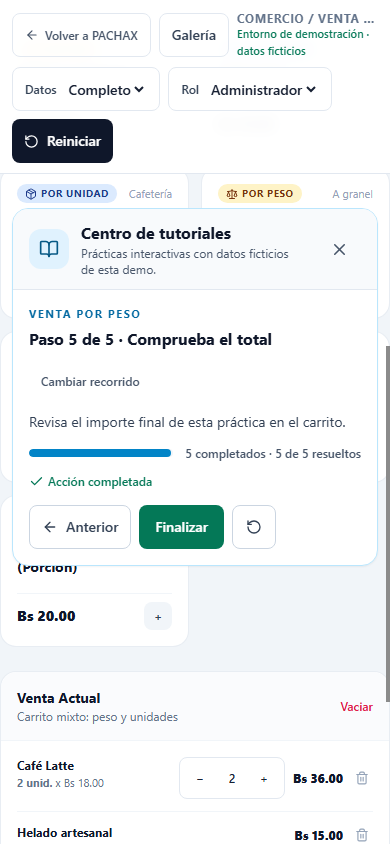
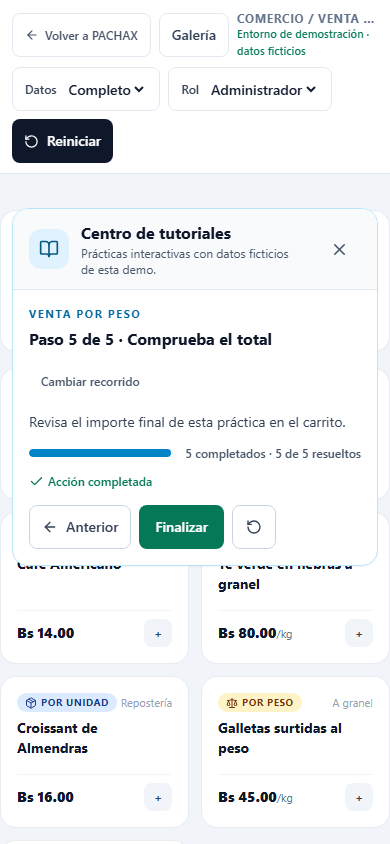
fix(demo): make retail payment tutorial start empty

diff --git a/src/demo/quick-retail/QuickRetailTutorialCenter.tsx b/src/demo/quick-retail/QuickRetailTutorialCenter.tsx
@@ -1,4 +1,4 @@
-import { useEffect, useMemo, useState } from 'react'
+import { useEffect, useLayoutEffect, useMemo, useRef, useState } from 'react'
 import { ArrowLeft, ArrowRight, BookOpen, Check, CircleHelp, RotateCcw, X } from 'lucide-react'
 import { QUICK_RETAIL_TUTORIALS, type QuickRetailTutorialEvent, type QuickRetailTutorialId } from './quickRetailTutorials'
 
@@ -25,6 +25,11 @@ export function QuickRetailTutorialCenter({
   const step = tutorial?.steps[stepIndex]
   const currentKey = tutorial && step ? `${tutorial.id}:${step.id}` : null
   const currentState = currentKey ? stepStates[currentKey] || 'pending' : 'pending'
+  const activeAction = useRef<{ key: string; expectedEvent: QuickRetailTutorialEvent } | null>(null)
+
+  useLayoutEffect(() => {
+    activeAction.current = isOpen && currentKey && step ? { key: currentKey, expectedEvent: step.expectedEvent } : null
+  }, [isOpen, currentKey, step])
 
   useEffect(() => {
     if (!isOpen || !step) return
@@ -42,19 +47,28 @@ export function QuickRetailTutorialCenter({
   }, [isOpen, selectedId, stepIndex, step])
 
   useEffect(() => {
-    if (!isOpen) return
     const onEvent = (event: Event) => {
       const detail = (event as CustomEvent<{ action: QuickRetailTutorialEvent }>).detail
-      if (!step || !currentKey || detail?.action !== step.expectedEvent) return
-      setStepStates((current) => ({ ...current, [currentKey]: 'completed' }))
+      const active = activeAction.current
+      if (!active || detail?.action !== active.expectedEvent) return
+      setStepStates((current) => ({ ...current, [active.key]: 'completed' }))
     }
     window.addEventListener('quick-retail-tutorial-action', onEvent)
     return () => window.removeEventListener('quick-retail-tutorial-action', onEvent)
-  }, [isOpen, currentKey, step])
+  }, [])
 
   if (!isOpen) return null
 
+  const moveToStep = (nextIndex: number) => {
+    const nextStep = tutorial?.steps[nextIndex]
+    activeAction.current = tutorial && nextStep ? { key: `${tutorial.id}:${nextStep.id}`, expectedEvent: nextStep.expectedEvent } : null
+    setStepIndex(nextIndex)
+  }
+
   const selectTutorial = (id: QuickRetailTutorialId) => {
+    const selected = QUICK_RETAIL_TUTORIALS.find((item) => item.id === id)
+    const firstStep = selected?.steps[0]
+    activeAction.current = selected && firstStep ? { key: `${selected.id}:${firstStep.id}`, expectedEvent: firstStep.expectedEvent } : null
     setSelectedId(id)
     setStepIndex(0)
     onOpenPos()
@@ -75,8 +89,11 @@ export function QuickRetailTutorialCenter({
       tutorial.steps.forEach((item) => delete next[`${tutorial.id}:${item.id}`])
       return next
     })
+    const firstStep = tutorial.steps[0]
+    activeAction.current = firstStep ? { key: `${tutorial.id}:${firstStep.id}`, expectedEvent: firstStep.expectedEvent } : null
     setStepIndex(0)
     onOpenPos()
+    window.dispatchEvent(new CustomEvent('quick-retail-tutorial-selected'))
   }
 
   return (
@@ -109,7 +126,7 @@ export function QuickRetailTutorialCenter({
       ) : (
         <div className="grid gap-4 p-4 sm:p-5 lg:grid-cols-[minmax(0,1fr)_auto] lg:items-center">
           <div className="min-w-0">
-            <div className="flex flex-wrap items-center justify-between gap-2"><div><p className="text-[11px] font-bold uppercase tracking-[0.14em] text-sky-700">{tutorial.title}</p><h3 className="mt-1 text-base font-bold text-slate-900">Paso {stepIndex + 1} de {tutorial.steps.length} · {step?.title}</h3></div><button type="button" onClick={() => setSelectedId(null)} className="min-h-11 rounded-lg px-3 text-xs font-semibold text-slate-600 hover:bg-slate-100">Cambiar recorrido</button></div>
+            <div className="flex flex-wrap items-center justify-between gap-2"><div><p className="text-[11px] font-bold uppercase tracking-[0.14em] text-sky-700">{tutorial.title}</p><h3 className="mt-1 text-base font-bold text-slate-900">Paso {stepIndex + 1} de {tutorial.steps.length} · {step?.title}</h3></div><button type="button" onClick={() => { activeAction.current = null; setSelectedId(null) }} className="min-h-11 rounded-lg px-3 text-xs font-semibold text-slate-600 hover:bg-slate-100">Cambiar recorrido</button></div>
             <p className="mt-2 max-w-3xl text-sm leading-relaxed text-slate-700" aria-live="polite">{step?.instruction}</p>
             <div className="mt-3 flex flex-wrap items-center gap-3">
               <div className="h-2 min-w-36 flex-1 overflow-hidden rounded-full bg-slate-100" role="progressbar" aria-label="Progreso del recorrido" aria-valuemin={0} aria-valuemax={tutorial.steps.length} aria-valuenow={resolvedCount}><div className="h-full rounded-full bg-sky-600 transition-[width]" style={{ width: `${progressPercent}%` }} /></div>
@@ -119,9 +136,9 @@ export function QuickRetailTutorialCenter({
             </div>
           </div>
           <nav aria-label="Navegación del recorrido" className="flex flex-wrap items-center gap-2 lg:justify-end">
-            <button type="button" onClick={() => setStepIndex((index) => Math.max(0, index - 1))} disabled={stepIndex === 0} className="inline-flex min-h-11 items-center justify-center gap-2 rounded-lg border border-slate-300 px-3 text-sm font-semibold text-slate-700 disabled:opacity-40"><ArrowLeft size={16} /> Anterior</button>
-            {currentState === 'pending' && <button type="button" onClick={() => setCurrentState('skipped')} className="min-h-11 rounded-lg px-3 text-sm font-semibold text-slate-600 underline decoration-slate-300 underline-offset-4">Omitir paso</button>}
-            {stepIndex < tutorial.steps.length - 1 ? <button type="button" onClick={() => setStepIndex((index) => Math.min(tutorial.steps.length - 1, index + 1))} disabled={currentState === 'pending'} className="inline-flex min-h-11 items-center justify-center gap-2 rounded-lg bg-slate-900 px-4 text-sm font-semibold text-white disabled:cursor-not-allowed disabled:opacity-40">Siguiente <ArrowRight size={16} /></button> : <button type="button" onClick={() => setSelectedId(null)} disabled={currentState === 'pending'} className="min-h-11 rounded-lg bg-emerald-700 px-4 text-sm font-semibold text-white disabled:opacity-40">Finalizar</button>}
+            <button type="button" onClick={() => moveToStep(Math.max(0, stepIndex - 1))} disabled={stepIndex === 0} className="inline-flex min-h-11 items-center justify-center gap-2 rounded-lg border border-slate-300 px-3 text-sm font-semibold text-slate-700 disabled:opacity-40"><ArrowLeft size={16} /> Anterior</button>
+            {currentState === 'pending' && <button type="button" onClick={() => { activeAction.current = null; setCurrentState('skipped') }} className="min-h-11 rounded-lg px-3 text-sm font-semibold text-slate-600 underline decoration-slate-300 underline-offset-4">Omitir paso</button>}
+            {stepIndex < tutorial.steps.length - 1 ? <button type="button" onClick={() => moveToStep(Math.min(tutorial.steps.length - 1, stepIndex + 1))} disabled={currentState === 'pending'} className="inline-flex min-h-11 items-center justify-center gap-2 rounded-lg bg-slate-900 px-4 text-sm font-semibold text-white disabled:cursor-not-allowed disabled:opacity-40">Siguiente <ArrowRight size={16} /></button> : <button type="button" onClick={() => { activeAction.current = null; setSelectedId(null) }} disabled={currentState === 'pending'} className="min-h-11 rounded-lg bg-emerald-700 px-4 text-sm font-semibold text-white disabled:opacity-40">Finalizar</button>}
             <button type="button" onClick={restart} className="grid min-h-11 min-w-11 place-items-center rounded-lg border border-slate-300 text-slate-700" aria-label="Reiniciar recorrido" title="Reiniciar recorrido"><RotateCcw size={16} /></button>
           </nav>
         </div>

diff --git a/src/demo/quick-retail/quickRetailTutorials.ts b/src/demo/quick-retail/quickRetailTutorials.ts
@@ -43,7 +43,7 @@ export const QUICK_RETAIL_TUTORIALS: readonly QuickRetailTutorial[] = [
     steps: [
       { id: 'catalog', title: 'Catálogo', instruction: 'Enfoca el área del catálogo para ubicar dónde aparecen los productos disponibles.', target: 'catalog', expectedEvent: 'catalog-focus' },
       { id: 'search', title: 'Búsqueda', instruction: 'Enfoca la búsqueda. Puedes filtrar productos escribiendo su nombre o rubro.', target: 'search', expectedEvent: 'search-focus' },
-      { id: 'product', title: 'Productos', instruction: 'Enfoca el catálogo para reconocer dónde aparecen los artículos. Puedes continuar sin agregar uno a la venta.', target: 'catalog', expectedEvent: 'catalog-focus' },
+      { id: 'product', title: 'Productos', instruction: 'Selecciona un artículo para ver cómo aparece en la venta actual. Si el catálogo está vacío, puedes omitir este paso.', target: 'product', expectedEvent: 'product-added' },
       { id: 'cart', title: 'Carrito', instruction: 'Enfoca la venta actual. Aquí aparecen las líneas agregadas, su cantidad y subtotal.', target: 'cart', expectedEvent: 'cart-focus' },
       { id: 'total', title: 'Total', instruction: 'Enfoca el total para identificar el importe que se revisa antes de cobrar.', target: 'total', expectedEvent: 'total-focus' },
     ],
@@ -70,6 +70,7 @@ export const QUICK_RETAIL_TUTORIALS: readonly QuickRetailTutorial[] = [
   {
     id: 'payment', title: 'Cobro demostrativo', description: 'Practica un cobro local con métodos ficticios, sin transacciones bancarias.', requiresProducts: true,
     steps: [
+      { id: 'add-payment-product', title: 'Prepara un artículo', instruction: 'Agrega un producto marcado “Por Unidad”, por ejemplo Café Latte. El cobro requiere al menos un artículo en el carrito. Si ya agregaste uno, puedes omitir este paso.', target: 'product', expectedEvent: 'product-added' },
       { id: 'review-cart', title: 'Revisa el carrito', instruction: 'Enfoca el carrito y revisa los productos y cantidades antes de cobrar.', target: 'cart', expectedEvent: 'cart-focus' },
       { id: 'open-checkout', title: 'Abre el cobro', instruction: 'Pulsa “Cobrar Venta” para abrir el formulario de pago de demostración.', target: 'checkout', expectedEvent: 'checkout-opened' },
       { id: 'select-method', title: 'Identifica los métodos', instruction: 'Selecciona Efectivo, QR o Mixto. La selección solo afecta esta práctica local.', target: 'payment-method', expectedEvent: 'payment-method-selected' },

diff --git a/src/demo/quick-retail/QuickRetailPOS.tsx b/src/demo/quick-retail/QuickRetailPOS.tsx
@@ -183,7 +183,7 @@ export function QuickRetailPOS({
         )}
 
         {/* Buscador y Categorías */}
-        <div data-tutorial-target="catalog" tabIndex={0} onFocus={() => tutorialAction('catalog-focus')} className="bg-white p-4 rounded-2xl border border-slate-200/80 shadow-xs space-y-3 focus:outline-none">
+        <div data-tutorial-target="catalog" tabIndex={0} onFocus={() => tutorialAction('catalog-focus')} onClick={() => tutorialAction('catalog-focus')} className="bg-white p-4 rounded-2xl border border-slate-200/80 shadow-xs space-y-3 focus:outline-none">
           <div className="flex items-center gap-3">
             <div className="relative flex-1">
               <Search className="w-4 h-4 absolute left-3 top-1/2 -translate-y-1/2 text-slate-400" />

diff --git a/docs/retail-learning-center.md b/docs/retail-learning-center.md
@@ -15,18 +15,20 @@
 - `RestaurantLearningCenter` y `restaurantLearningCenter` aportan referencias de catálogo de recorridos, estados de progreso y acciones. No se importan porque dependen de dominio y permisos de Restaurante.
 - Distribución y Nightclub muestran patrones útiles de tutorial contextual, resaltado, pasos y objetivos semánticos; sus centros conservan estado y dependencias de sus propias plantillas. No se reutilizan directamente en el bundle Retail.
 - `QuickRetailTutorialCenter` y `quickRetailTutorials` son propios de la demo aislada. El progreso responde a eventos tipados emitidos por controles reales. Los controles usan `data-tutorial-target` semánticos; avanzar por texto o mostrar una instrucción no completa un paso. Los pasos pueden quedar completados, omitidos o pendientes.
-- Al cambiar de recorrido se limpian búsqueda y categoría, pero se conserva el carrito. Con dataset vacío solo está disponible el recorrido de orientación. Si el rol simulado no puede usar el POS, el centro lo explica y permite cambiar el rol desde el control existente.
+- Al cambiar o reiniciar un recorrido se limpian búsqueda y categoría, pero se conserva el carrito. Con dataset vacío solo está disponible el recorrido de orientación; su paso de selección de producto se puede omitir y los pasos restantes se completan. Si el rol simulado no puede usar el POS, el centro lo explica y permite cambiar el rol desde el control existente.
+- Cobro demostrativo inicia con un paso real para agregar un producto de unidad antes de revisar el carrito. No inserta artículos automáticamente; al completar el paso, el POS habilita “Cobrar Venta”. Quien ya tenga un artículo puede omitir la preparación.
 - `GuidedTutorialsSection.tsx` abre el centro mediante el botón de la misma demo en el iframe same-origin. La demo independiente presenta el mismo botón. Las otras plantillas mantienen sus activadores y centros.
 
 ## Validación
 
-El script `scripts/test-demo-app-integration-browser.mjs` valida las demos aisladas en 320, 360, 375, 390, 430, 768, 1024, 1440 y 1920 px; comprueba catálogo completo/vacío, cambio de rol, reinicio, venta por unidad, gramos manuales, cálculo por peso, cobro local, folio, retorno al POS, acceso desde la landing, headers/CSP y solicitudes de red. Las capturas de estado se guardan en `docs/retail-learning-center-evidence/`.
+El script `scripts/test-demo-app-integration-browser.mjs` valida las demos aisladas en 320, 360, 375, 390, 430, 768, 1024, 1440 y 1920 px; comprueba catálogo completo/vacío, cambio de rol, reinicio, headers/CSP, límites de red y el flujo de Commerce desde landing y ruta independiente. En 390 y 1440 px recarga el runtime antes de cada uno de los cinco recorridos; ejecuta acciones reales hasta terminar orientación, unidad, peso, cobro desde carrito vacío y comprobante/nueva venta. También prueba omisión, reinicio, cambio de recorrido, cierre/reapertura conservando progreso y orientación con catálogo vacío. Las capturas de estado se guardan en `docs/retail-learning-center-evidence/`.
 
 ## Resultado final de QA
 
 - `npm run typecheck`, `npm run build:demos-only`, `npm run build:emulator`, `npm run test:demos-only:guard`, `npm run test:free-demo-routes`, `npm run test:preview-firebase-isolation`, `node scripts/test-demo-app-integration.mjs`, `node scripts/test-demo-app-integration-browser.mjs`, `npm run test:landing-browser`, ESLint focal y `git diff --check` pasaron.
 - El navegador comprobó ambas rutas de demo (completa y vacía) en 9 anchos: 320, 360, 375, 390, 430, 768, 1024, 1440 y 1920 px; sin overflow horizontal.
-- Los recorridos ejecutados incluyeron añadir/incrementar artículo por unidad, introducir gramos manualmente, calcular y añadir venta por peso, cobrar localmente con QR, revisar comprobante y comenzar otra venta. Se probaron también estados vacío y rol sin acceso a POS.
+- Los cinco recorridos se iniciaron desde un runtime recién recargado y se completaron independientemente a 390 y 1440 px. Cobro comenzó con carrito vacío, exigió agregar Café Latte manualmente, comprobó que el botón de cobro se habilita después y cerró el pago QR ficticio. Orientación vacía completó sus pasos restantes omitiendo el paso de producto.
+- También se probaron añadir/incrementar unidad, ingresar gramos manualmente, cálculo y agregado por peso, comprobante, reinicio del tutorial, cambio de recorrido, omisión, cierre/reapertura con progreso conservado, dataset vacío y rol sin acceso al POS.
 - El runtime aislado no realizó solicitudes externas ni errores de navegador; el guard reportó 0 referencias prohibidas y 0 sourcemaps. Solicitudes a Firebase Production: 0. CSP continúa con `connect-src 'none'`.
 - El test de landing se ejecutó en las 9 resoluciones, incluyendo abrir el Centro dentro del iframe para Comercio. El CTA espera a que el control se habilite cuando la demo termina de montar.
 - Las tres conexiones rechazadas en la consola de la landing corresponden a endpoints locales de emulador apagados; no hubo solicitudes a Production.

diff --git a/CONTEXTO.md b/CONTEXTO.md
@@ -2079,4 +2079,5 @@ Rama `codex/restaurante-turnos-mesas`. Trabajo acotado a la plantilla Restaurant
 - Se implementan cinco recorridos con pasos ligados a eventos de controles reales, progreso completado/omitido/pendiente y objetivos semánticos: orientación, unidad, peso, cobro demostrativo y comprobante/nueva venta. Se añadieron controles de cantidad y resumen local de comprobante sin alterar contratos productivos. Al cambiar de guía se reinician filtros del catálogo y se conserva el carrito.
 - Retail ya ofrece el botón nativo desde la demo independiente y desde el iframe de Tutoriales de la landing. En dataset vacío, los recorridos de venta se deshabilitan; los roles sin permiso de POS reciben indicaciones. No se importan Firebase, repositorios tenant ni gateways al bundle aislado.
 - Resultado final: typecheck, ESLint focal, build aislado/emulador, guards y rutas, pruebas browser del POS y de la landing pasaron. Se cubrieron las nueve resoluciones, catálogo completo/vacío, roles, reinicio, recorridos de unidad/peso/cobro/comprobante, CTA desde landing, 0 solicitudes a Firebase Production y CSP `connect-src 'none'`. Evidencia en `docs/retail-learning-center-evidence/` e `integration-browser.json`.
+- Cierre de Fase B: Cobro demostrativo ahora empieza agregando un producto manualmente; no crea líneas en nombre del visitante. Las pruebas inician cada recorrido desde un runtime nuevo a 390 y 1440 px, incluyendo cobro con carrito vacío, completar pago, dataset vacío, omisión, reinicio y cierre/reapertura conservando progreso. En móvil se revisan 320, 375, 390 y 430 px.
 - No se desplegó Vercel Preview ni Production. Cambios pendientes de revisión en un PR borrador; no fusionar.
